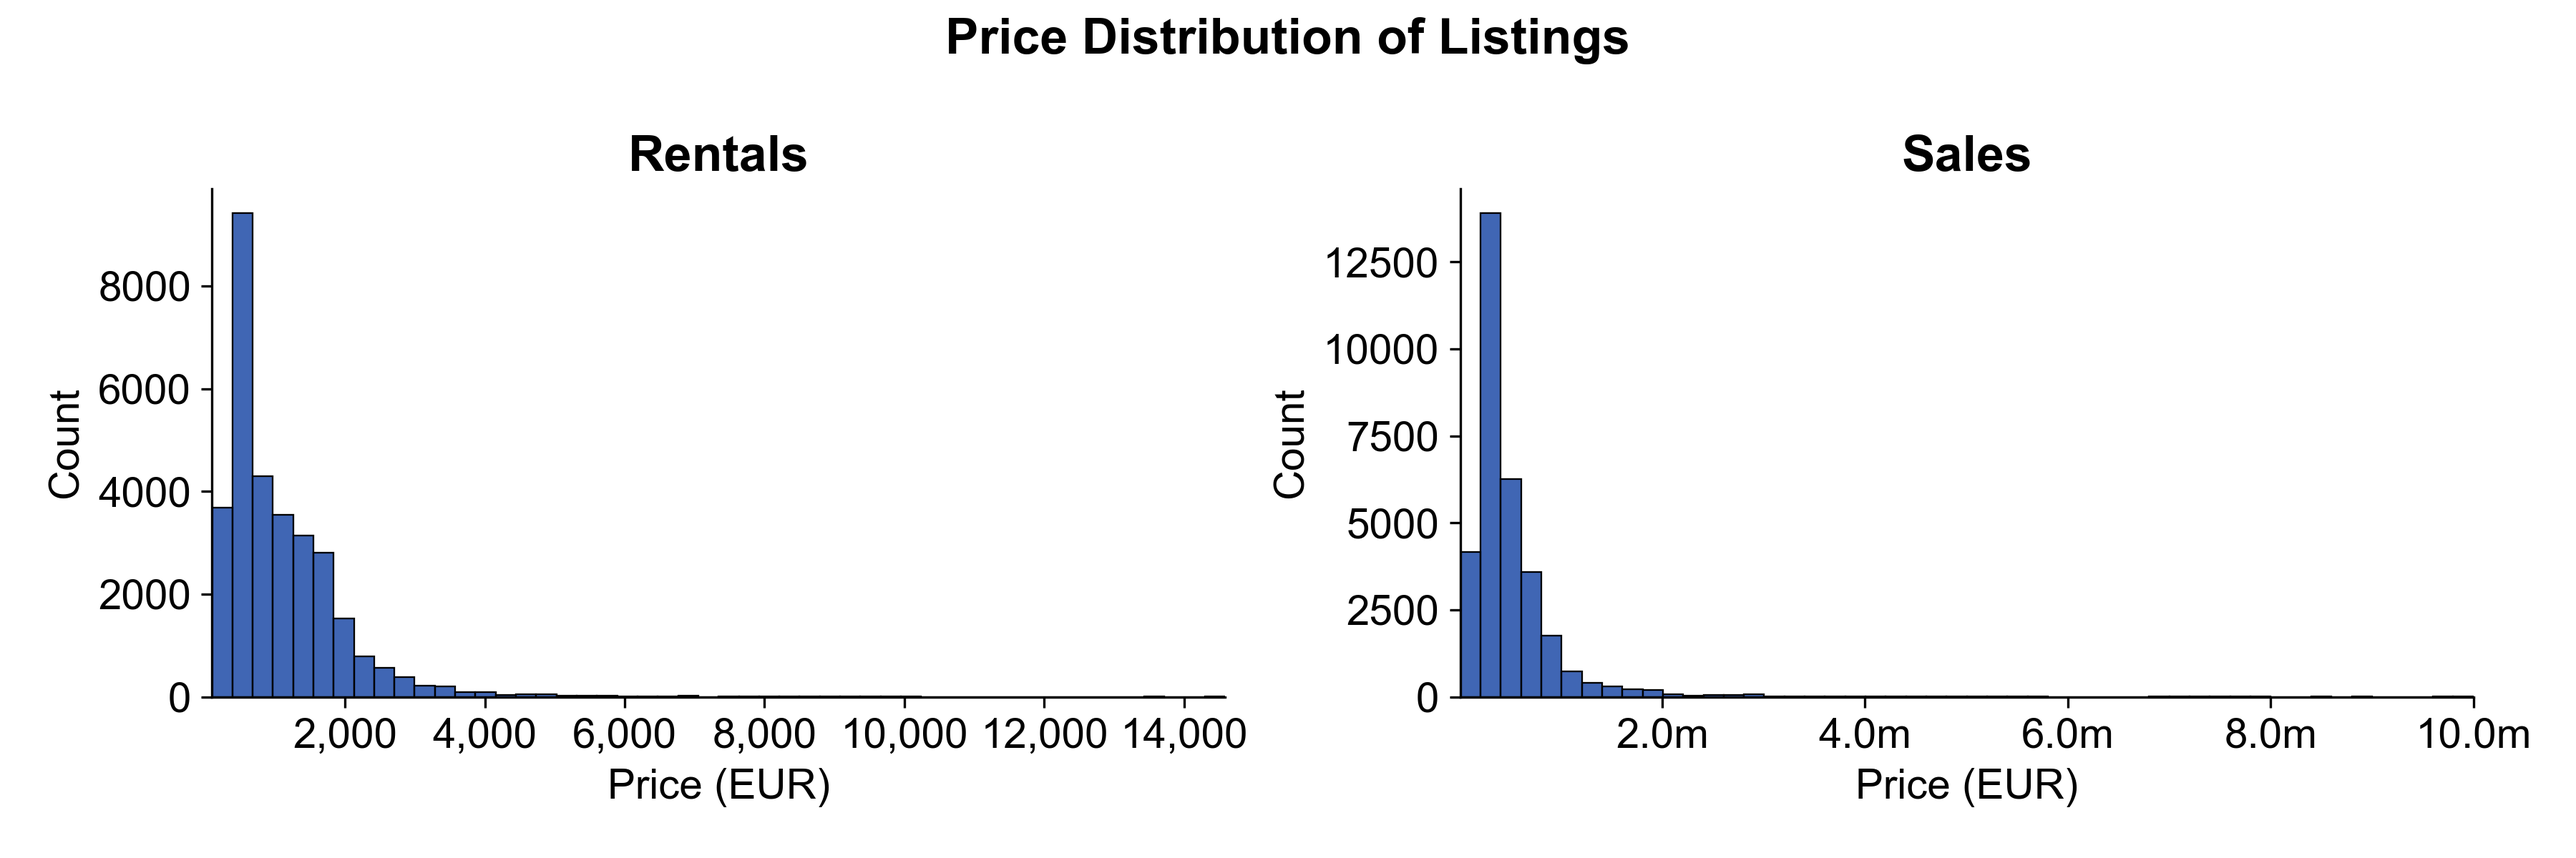
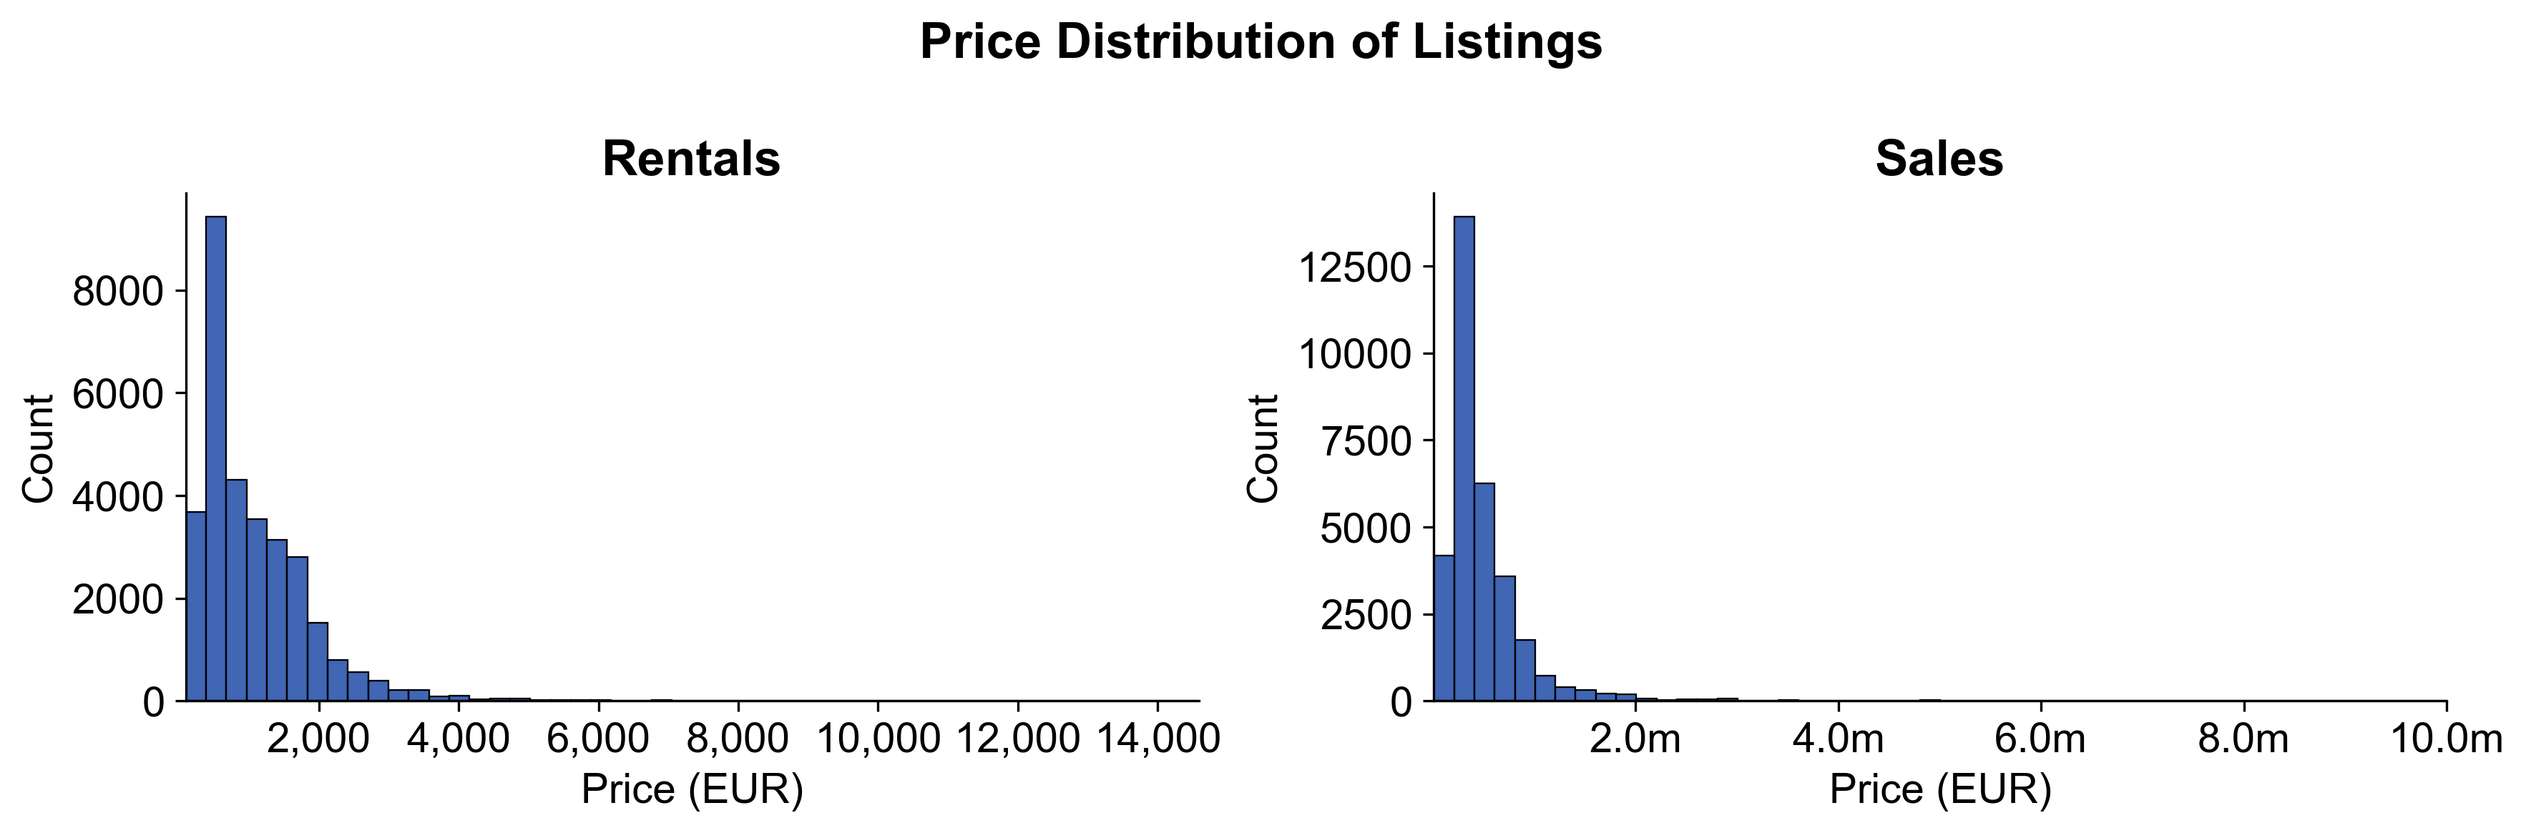
tightplot

diff --git a/scripts/plots.py b/scripts/plots.py
@@ -40,7 +40,7 @@ _ = [ax.margins(x=0) for ax in axes]
 fig.suptitle("Price Distribution of Listings", weight="bold")
 sns.despine()
 plt.tight_layout()
-plt.savefig(ROOT_DIR + "documents/plots/price_distribution_rentbuy.png", dpi=300, facecolor="w")
+plt.savefig(ROOT_DIR + "documents/plots/price_distribution_rentbuy.png", dpi=300, facecolor="w", bbox_inches="tight")
 
 #%%
 ################## Rent Price vs. SQM by private offer ##################
